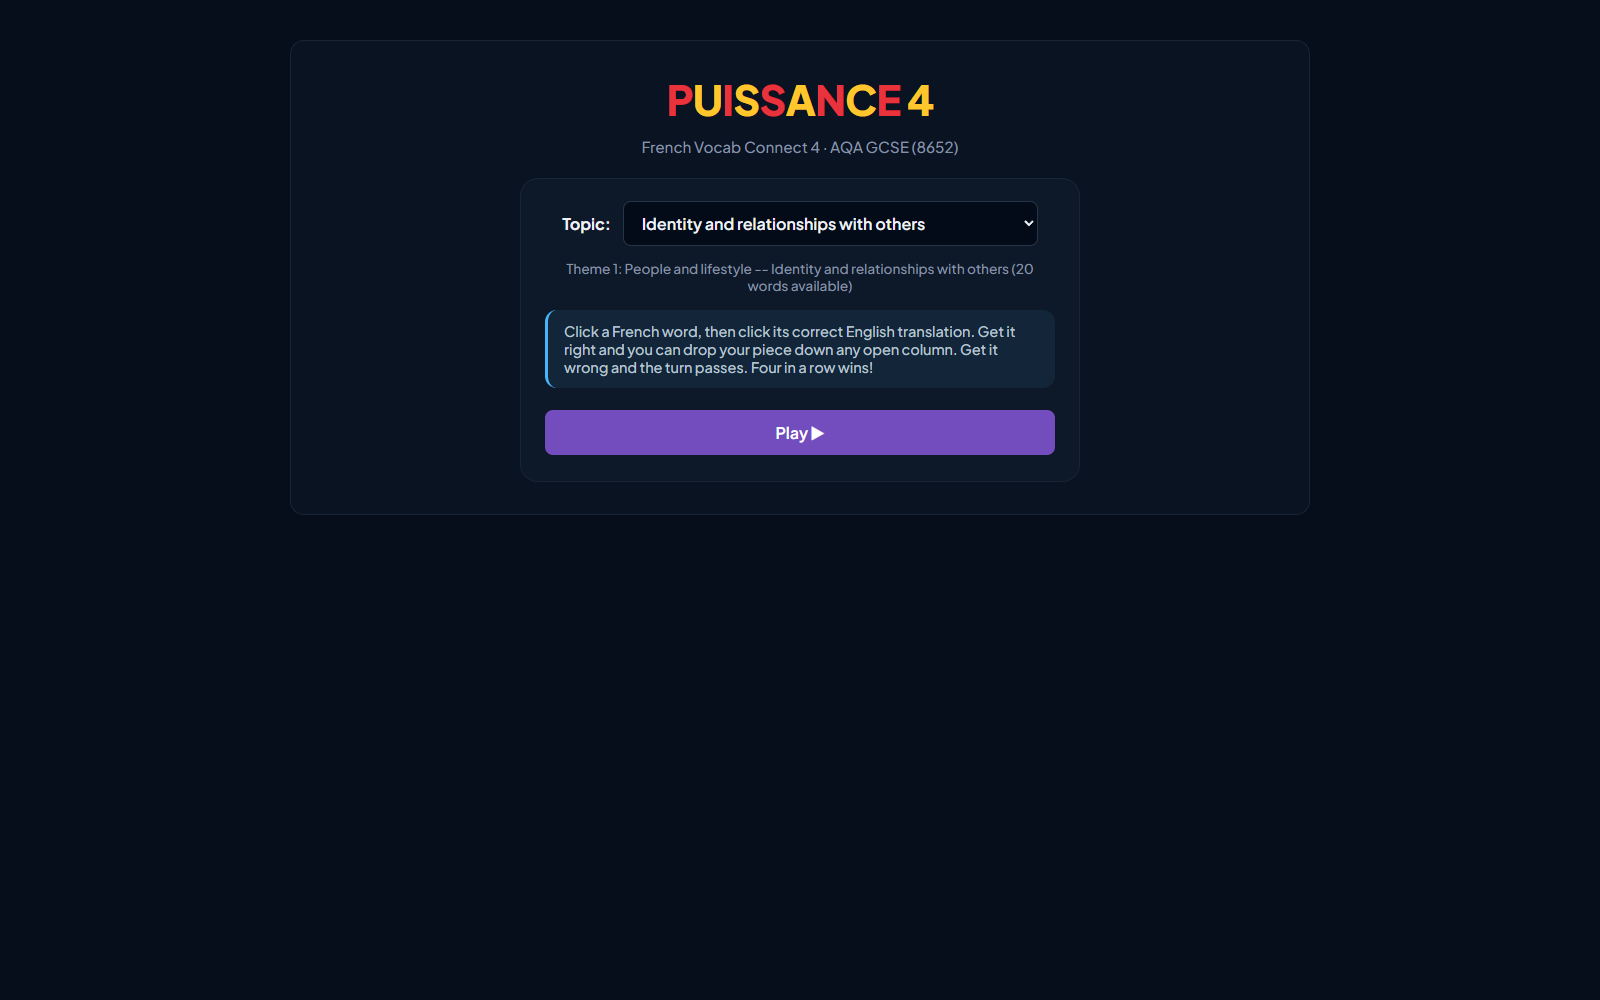
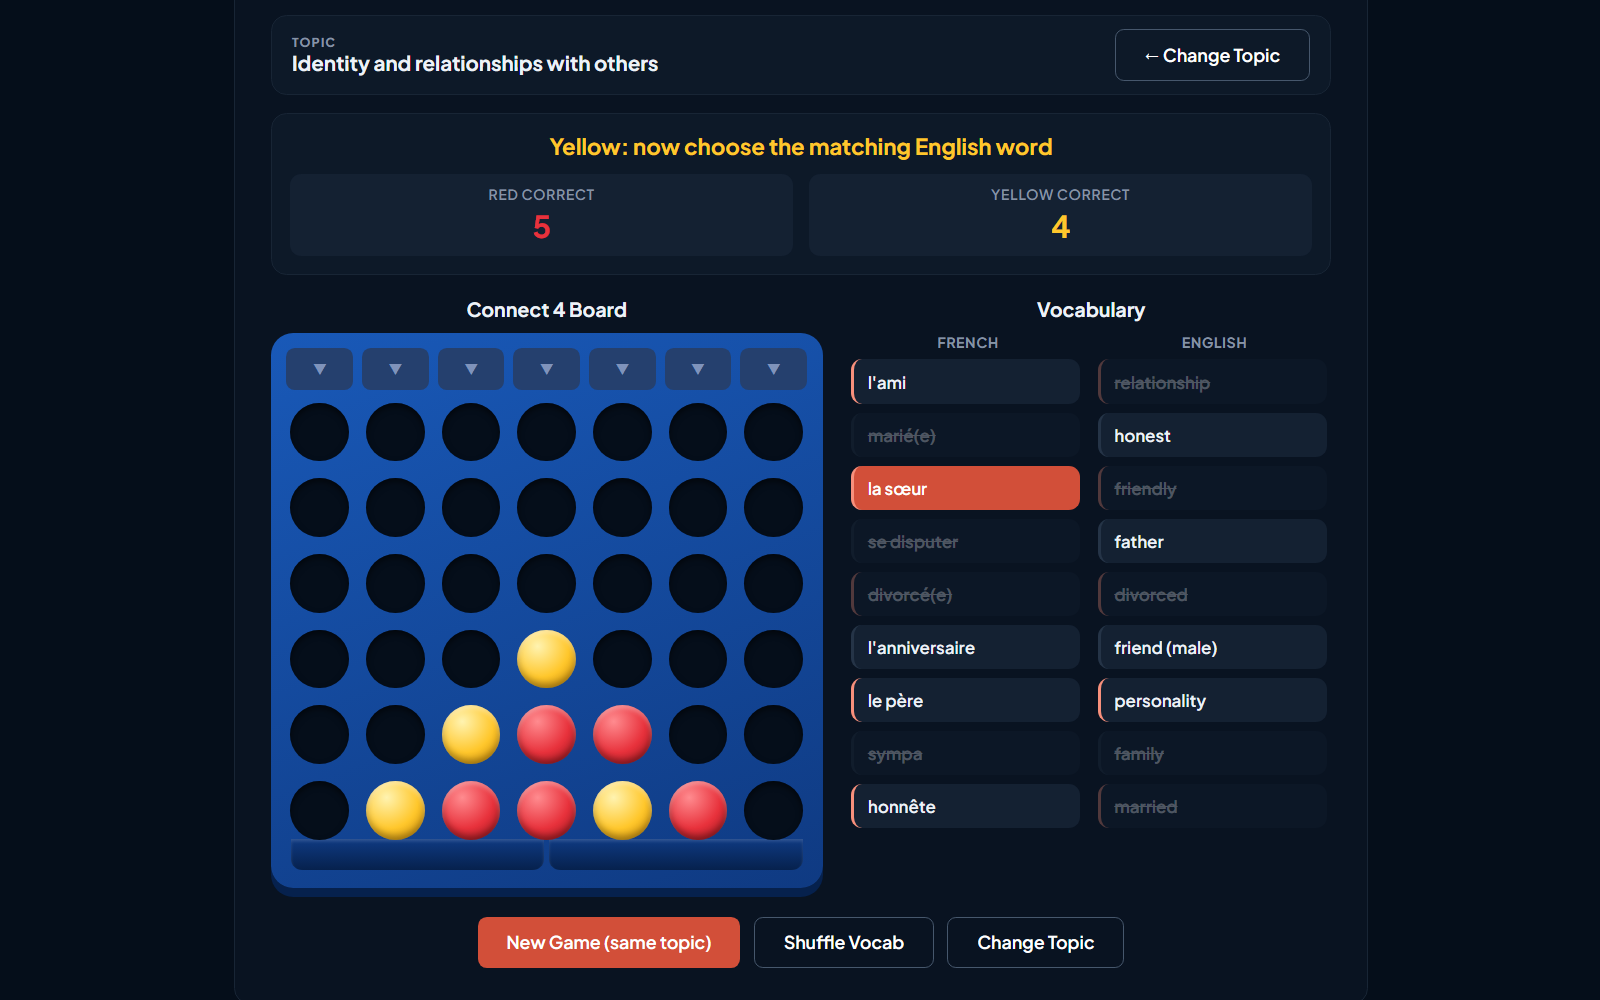
Language site: game screenshots, and Interleaved Grid out of beta
- New mid-game screenshots for the three Connect 4 games (replacing the
  topic-picker shots) and a first one for the Interleaved Grid Challenge
- The French, German and Spanish cards on the language homepage show
  their game's screenshot across the top
- Interleaved Grid Challenge drops its beta label from the catalogue,
  the page title and the in-game heading

diff --git a/languages/games/interleaved-grid.html b/languages/games/interleaved-grid.html
@@ -5,7 +5,7 @@
 <meta name="viewport" content="width=device-width, initial-scale=1.0">
 <!-- Google Translate's speech endpoint refuses requests that say which site sent them. -->
 <meta name="referrer" content="no-referrer">
-<title>Interleaved Grid Challenge (beta) — GCSE French, Spanish &amp; German</title>
+<title>Interleaved Grid Challenge — GCSE French, Spanish &amp; German</title>
 <meta name="description" content="A spaced-retrieval team game for the classroom board: a 4×4 or 5×5 grid of GCSE French, Spanish and German translation prompts, worth more points the longer ago the topic was taught.">
 <style>
   /* Tokens fall back to the site's hex values so the page still works opened
@@ -71,15 +71,6 @@
     font-size: clamp(1.15rem, 1.6vw, 1.6rem);
     font-weight: 800;
     letter-spacing: -0.01em;
-  }
-  .heading h1 .beta {
-    font-size: 0.6em;
-    font-weight: 700;
-    color: var(--accent);
-    border: 1px solid var(--accent-soft);
-    border-radius: 999px;
-    padding: 2px 8px;
-    vertical-align: middle;
   }
   .heading p { margin: 2px 0 0; color: var(--muted); font-size: 0.9rem; }
 
@@ -490,7 +481,7 @@
 <main class="app">
   <div class="top">
     <div class="heading">
-      <h1>Interleaved Grid Challenge <span class="beta">beta</span></h1>
+      <h1>Interleaved Grid Challenge</h1>
       <p id="subtitle">Spaced retrieval · GCSE</p>
     </div>
 

diff --git a/languages/index.html b/languages/index.html
@@ -58,6 +58,7 @@
 
   <section class="paths paths--langs" id="paths" aria-label="Choose a language">
     <a class="path path--lang" href="#all" data-subject-filter="French" style="--h: 255">
+      <div class="frame path-media"><img src="../assets/img/tools/french-connect4.png" alt="" loading="lazy" onerror="this.remove()"></div>
       <div class="path-body">
         <div class="path-head">
           <span class="path-icon" aria-hidden="true">FR</span>
@@ -68,6 +69,7 @@
       </div>
     </a>
     <a class="path path--lang" href="#all" data-subject-filter="German" style="--h: 75">
+      <div class="frame path-media"><img src="../assets/img/tools/german-connect4.png" alt="" loading="lazy" onerror="this.remove()"></div>
       <div class="path-body">
         <div class="path-head">
           <span class="path-icon" aria-hidden="true">DE</span>
@@ -78,6 +80,7 @@
       </div>
     </a>
     <a class="path path--lang" href="#all" data-subject-filter="Spanish" style="--h: 340">
+      <div class="frame path-media"><img src="../assets/img/tools/spanish-connect4.png" alt="" loading="lazy" onerror="this.remove()"></div>
       <div class="path-body">
         <div class="path-head">
           <span class="path-icon" aria-hidden="true">ES</span>

diff --git a/languages/languages.css b/languages/languages.css
@@ -21,13 +21,15 @@
 .path--lang {
   --card: oklch(0.2 0.035 var(--h)); --bd: oklch(0.33 0.06 var(--h));
   --bd-hover: oklch(0.72 0.12 var(--h)); --btn: oklch(0.3 0.07 var(--h));
-  grid-template-columns: 1fr;
+  grid-template-columns: 1fr; grid-template-rows: auto 1fr;
 }
 .path--lang .path-icon {
   font-size: 15px; font-weight: 800; letter-spacing: 0.04em; color: oklch(0.88 0.09 var(--h));
 }
 .path--lang .path-btn { color: oklch(0.92 0.06 var(--h)); }
 .path--lang:hover .path-btn { background: oklch(0.36 0.09 var(--h)); }
+/* Screenshot across the top of each card, above the copy. */
+.path--lang .path-media { order: -1; aspect-ratio: 16 / 10; min-height: 0; border-bottom: 1px solid var(--bd); }
 
 /* The link across to science keeps science's blue, so it reads as the other site. */
 .nav-sister { color: oklch(0.8 0.1 240); }

diff --git a/assets/sst/language-tools.js b/assets/sst/language-tools.js
@@ -28,7 +28,7 @@ window.SLT_TOOLS = [
     image: "spanish-connect4.png", featured: true,
     keywords: "spanish espanol español conecta 4 connect four vocabulary vocab mfl languages modern foreign edexcel pearson gcse 1sp1 team game starter plenary retrieval" },
 
-  { title: "Interleaved Grid Challenge (beta)", url: "languages/games/interleaved-grid.html",
+  { title: "Interleaved Grid Challenge", url: "languages/games/interleaved-grid.html",
     blurb: "Pick a card from a grid of French, Spanish or German translations, worth more points the longer ago the topic was taught, and push for the higher-tier bonus.",
     kind: "Revision Game", levels: ["GCSE"], tags: ["French", "German", "Spanish", "Revision Game", "Interactive"],
     image: "interleaved-grid.png",
